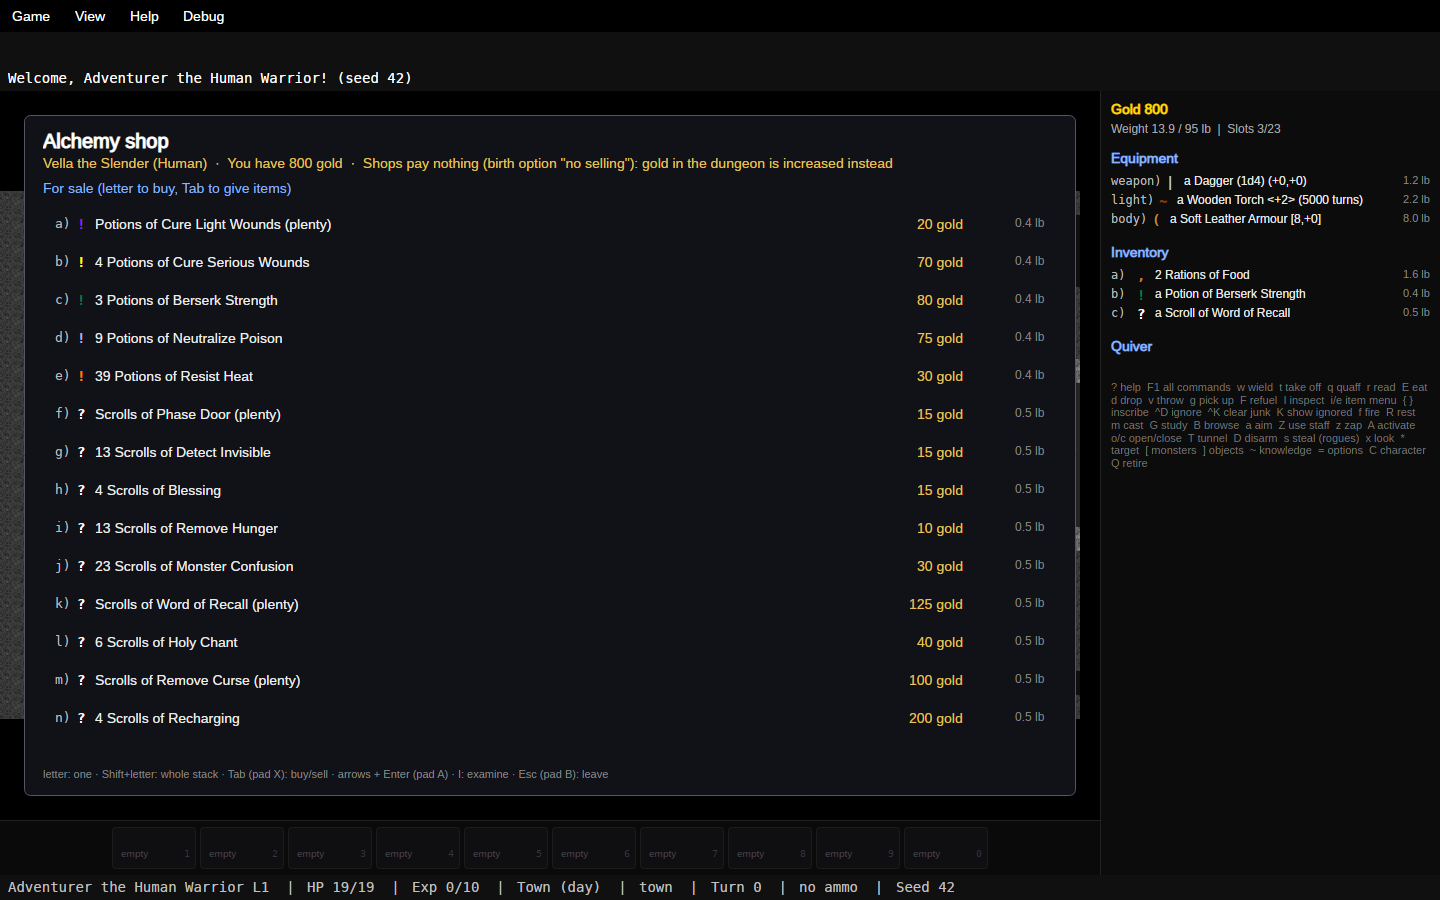
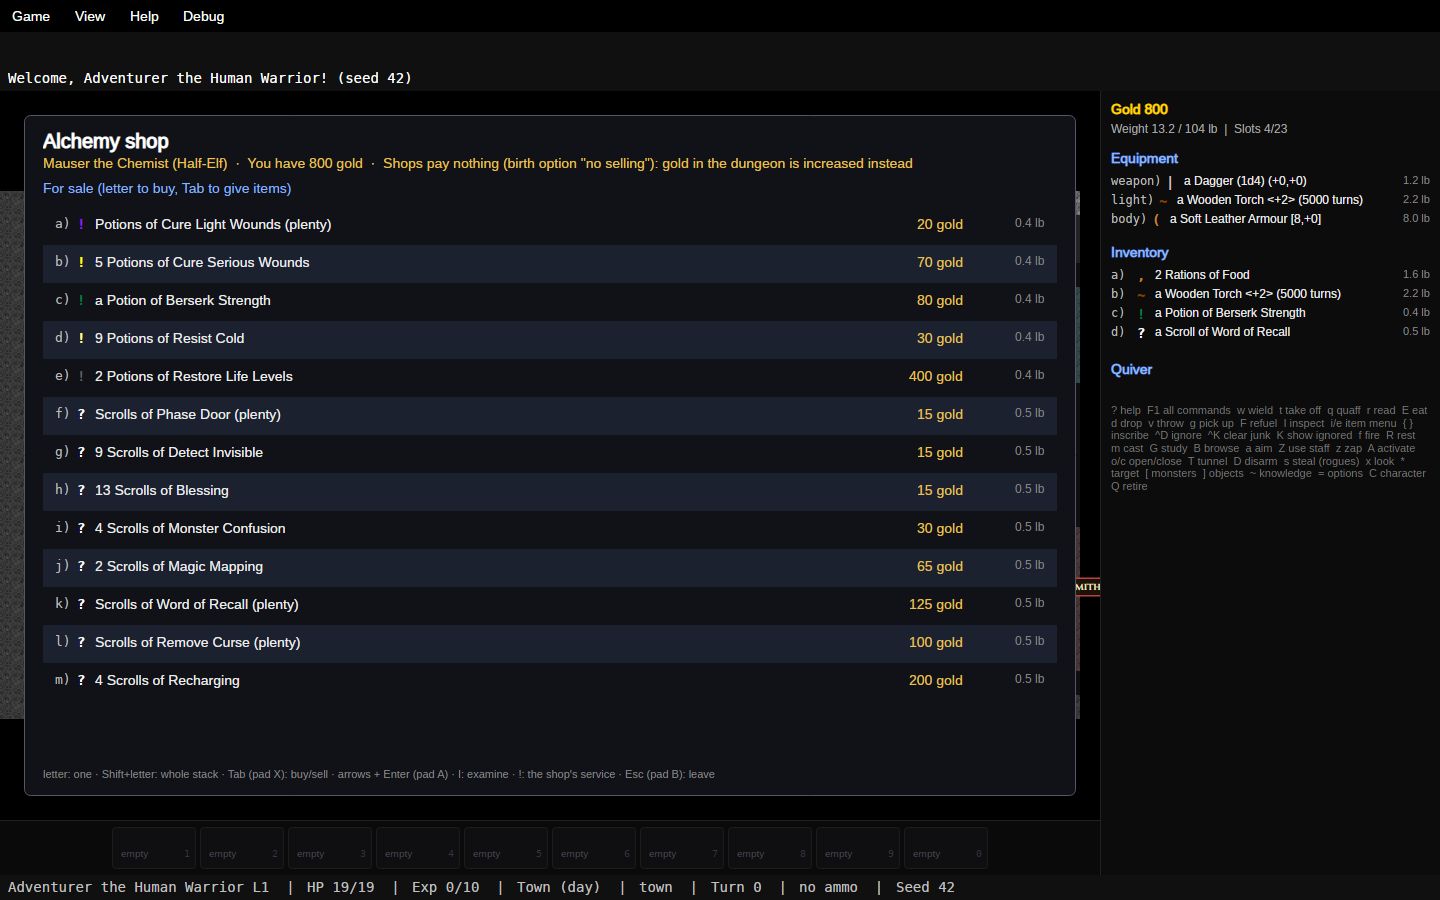
Striped shop lists; a) picks up a whole pile
Every other row of a shop's list is a shade lighter (on the item itself,
so the selection still shows), easier to follow a name across to its
price and weight. Picking up from a pile, the first choice a) is
"Everything here (N things)" and the pile's things are lettered from b);
a lone item is still taken without asking. README store screenshot
re-rendered.

diff --git a/src/Angband.Avalonia/ViewModels/MainWindowViewModel.Items.cs b/src/Angband.Avalonia/ViewModels/MainWindowViewModel.Items.cs
@@ -52,6 +52,9 @@ public sealed record ItemRow(string Letter, string Glyph, uint GlyphColor, strin
 
     /// <summary>The row in words (its accessible name): the note after the name.</summary>
     public string Spoken => HasAdvice ? $"{Name}. {Advice}" : Name;
+
+    /// <summary>The pickup prompt's first row (AVABand's own): everything here at once, not the one item behind it.</summary>
+    public bool AllOfThem { get; init; }
 }
 
 /// <summary>Inventory panel and Angband-style "which item?" prompts.</summary>
@@ -151,9 +154,18 @@ public sealed partial class MainWindowViewModel
             _ => "Inspect which item?",
         };
         PromptRows.Clear();
-        for (var i = 0; i < candidates.Count && i < 26; i++)
+        // Picking up from a pile (AVABand's own): a) takes everything here, and the pile's own things start at b).
+        var first = 0;
+        if (kind == ItemPromptKind.Pickup && candidates.Count > 1)
         {
-            var row = Row(((char)('a' + i)).ToString(), candidates[i]);
+            var weight = candidates.Where(i => !i.IsGold).Sum(i => i.TotalWeight);
+            PromptRows.Add(new ItemRow("a", "*", 0xFFFFE08A, $"Everything here ({candidates.Count} things)",
+                string.Format(CultureInfo.InvariantCulture, "{0:0.0} lb", weight / 10.0), candidates[0]) { AllOfThem = true });
+            first = 1;
+        }
+        for (var i = 0; i < candidates.Count && i + first < 26; i++)
+        {
+            var row = Row(((char)('a' + i + first)).ToString(), candidates[i]);
             // Wear or wield: each with the shops' note on how it compares with what it would replace.
             if (kind == ItemPromptKind.Wield && WieldAdvice(candidates[i]) is { } advice)
                 row = row with
@@ -192,6 +204,13 @@ public sealed partial class MainWindowViewModel
             else if (!AssignChosen(null, spellRow.Spell)) ChooseSpell(spellRow);
             return true;
         }
+        // The pickup prompt's a): everything here.
+        if (!char.IsAsciiDigit(key) && PromptRows.FirstOrDefault(r => r.Letter[0] == key) is { AllOfThem: true })
+        {
+            _assignSlot = null;
+            PickUpEverything();
+            return true;
+        }
         // A digit picks the item inscribed for it (Angband @q1, or @1 for any command).
         var item = char.IsAsciiDigit(key)
             ? PromptRows.Select(r => r.Item).FirstOrDefault(i => Inscription.HasTag(i, CommandKey(_promptKind), key))
@@ -205,6 +224,14 @@ public sealed partial class MainWindowViewModel
         if (AssignChosen(item, null)) return true; // filling a hotbar slot
         UseItemAsked(_promptKind, item);
         return true;
+    }
+
+    /// <summary>Picks up everything underfoot — asking first if anything there is inscribed to ask (Angband !g, !*).</summary>
+    private void PickUpEverything()
+    {
+        var here = Candidates(ItemPromptKind.Pickup).ToList();
+        if (here.Any(i => Inscription.AsksFirst(i, 'g'))) AskFirst("Really pick up everything here?", () => Execute(new PickupCommand()));
+        else Execute(new PickupCommand());
     }
 
     /// <summary>Uses an item as the command says — asking first if its inscription says to (Angband !d, !*).</summary>

diff --git a/tests/Angband.Avalonia.Tests/PickupUiTests.cs b/tests/Angband.Avalonia.Tests/PickupUiTests.cs
@@ -1,0 +1,70 @@
+using Angband.Avalonia.ViewModels;
+using Angband.Avalonia.Views;
+using Angband.Core.Game;
+using Angband.Data;
+using Angband.Input;
+using Avalonia.Headless;
+using Avalonia.Headless.XUnit;
+using Avalonia.Input;
+
+namespace Angband.Avalonia.Tests;
+
+/// <summary>Picking up from a pile (AVABand's own): a) takes everything, the pile's things lettered from b).</summary>
+public class PickupUiTests
+{
+    private static (MainWindow Window, MainWindowViewModel Vm) Open(params string[] pile)
+    {
+        MainWindow.ShowCreationOnFirstRun = false;
+        var settings = new AppSettings();
+        settings.Options[DisplayOptions.Hints] = false;
+        var vm = new MainWindowViewModel(DataLoader.Load(DataLoader.DefaultDataDirectory), [], settings, save: null);
+        vm.UseInput(InputBindings.Defaults(), null, null);
+        vm.StartGame(42, "warrior");
+        var game = vm.Game;
+        foreach (var kind in pile) game.Level.Objects.Add(game.Player.Position, game.Objects.Create(kind));
+        var window = new MainWindow { DataContext = vm, Width = 1280, Height = 760 };
+        window.Show();
+        return (window, vm);
+    }
+
+    private static int Underfoot(MainWindowViewModel vm) => vm.Game.Level.Objects.At(vm.Game.Player.Position).Count();
+
+    [AvaloniaFact]
+    public void A_PicksUpEverything_AndThePilesThingsStartAtB()
+    {
+        var (window, vm) = Open("dagger", "flask_of_oil", "cure_light_wounds");
+        window.KeyPressQwerty(PhysicalKey.G, RawInputModifiers.None);
+        Assert.True(vm.IsPrompting);
+        Assert.Equal("Pick up which item?", vm.PromptTitle);
+        Assert.Equal(4, vm.PromptRows.Count);
+        Assert.Equal(("a", "Everything here (3 things)"), (vm.PromptRows[0].Letter, vm.PromptRows[0].Name));
+        Assert.True(vm.PromptRows[0].AllOfThem);
+        Assert.Equal(["b", "c", "d"], vm.PromptRows.Skip(1).Select(r => r.Letter));
+        TileRenderingTests.Save(window, "pickup-everything");
+
+        window.KeyPressQwerty(PhysicalKey.A, RawInputModifiers.None);
+        Assert.False(vm.IsPrompting);
+        Assert.Equal(0, Underfoot(vm));
+        Assert.Contains(vm.Game.Player.Inventory.Pack, i => i.Kind.Id == "cure_light_wounds");
+    }
+
+    [AvaloniaFact]
+    public void B_PicksUpJustTheFirstThing()
+    {
+        var (window, vm) = Open("dagger", "flask_of_oil");
+        window.KeyPressQwerty(PhysicalKey.G, RawInputModifiers.None);
+        var first = vm.PromptRows[1].Item;
+        window.KeyPressQwerty(PhysicalKey.B, RawInputModifiers.None);
+        Assert.Equal(1, Underfoot(vm));
+        Assert.DoesNotContain(vm.Game.Level.Objects.At(vm.Game.Player.Position), i => ReferenceEquals(i, first));
+    }
+
+    [AvaloniaFact]
+    public void ALoneThing_IsPickedUpWithoutAsking()
+    {
+        var (window, vm) = Open("dagger");
+        window.KeyPressQwerty(PhysicalKey.G, RawInputModifiers.None);
+        Assert.False(vm.IsPrompting);
+        Assert.Equal(0, Underfoot(vm));
+    }
+}

diff --git a/tests/Angband.Avalonia.Tests/StoreUiTests.cs b/tests/Angband.Avalonia.Tests/StoreUiTests.cs
@@ -323,6 +323,21 @@ public class StoreUiTests
         Assert.Equal(had + 8, game.Player.Inventory.All.Where(i => i.Kind.Id == "flask_of_oil").Sum(i => i.Number));
     }
 
+    /// <summary>Every other row of a shop's list a shade lighter, so a name is easy to follow across to its price.</summary>
+    [AvaloniaFact]
+    public void TheShopsRows_AreStriped()
+    {
+        var (window, vm, _) = OpenAt("general");
+        window.CaptureRenderedFrame();
+        var items = window.GetVisualDescendants().OfType<ListBox>().Single(l => l.Name == "StoreList")
+            .GetVisualDescendants().OfType<ListBoxItem>().ToList();
+        Assert.True(items.Count >= 4);
+        var shade = global::Avalonia.Media.Color.Parse("#1C2130");
+        Assert.All(items.Where((_, i) => i % 2 == 1), i => Assert.Equal(shade, (i.Background as global::Avalonia.Media.ISolidColorBrush)?.Color));
+        Assert.All(items.Where((_, i) => i % 2 == 0), i => Assert.NotEqual(shade, (i.Background as global::Avalonia.Media.ISolidColorBrush)?.Color));
+        TileRenderingTests.Save(window, "store-striped");
+    }
+
     /// <summary>AVABand's own: at "Quantity (1-N, a for all)?", A sells (or buys) the lot.</summary>
     [AvaloniaFact]
     public void At_the_quantity_A_trades_them_all()

diff --git a/src/Angband.Avalonia/Views/MainWindow.axaml.cs b/src/Angband.Avalonia/Views/MainWindow.axaml.cs
@@ -248,7 +248,7 @@ public partial class MainWindow : Window
         if (DataContext is not MainWindowViewModel vm) return;
         var row = (e.Source as global::Avalonia.Visual)?.FindAncestorOfType<ListBoxItem>(includeSelf: true)?.DataContext;
         var letter = row switch { ItemRow r => r.Letter, SpellRow s => s.Letter, ChoiceRow c => c.Letter, _ => null };
-        var payload = row switch { ItemRow r => MainWindowViewModel.DragPayload(r.Item), SpellRow s => MainWindowViewModel.DragPayload(s.Spell), _ => null };
+        var payload = row switch { ItemRow { AllOfThem: false } r => MainWindowViewModel.DragPayload(r.Item), SpellRow s => MainWindowViewModel.DragPayload(s.Spell), _ => null };
         if (letter is { Length: > 0 }) BeginPending(e, payload, () => vm.PromptKey(letter[0])); // picked on release
     }
 

diff --git a/README.md b/README.md
@@ -714,7 +714,8 @@ it on the floor (`x`), and it sits under each choice in the *Wear or wield* prom
     turns selling on (or off) mid-game — an AVABand addition, and not a cheat: either setting is
     a legitimate 4.2 game, so the character is still scored.
   - Bought items are fully known. The home stores up to 24 stacks.
-  Walk onto an entrance (or press `_` / Confirm on it) to open the store screen: a letter buys or
+  Walk onto an entrance (or press `_` / Confirm on it) to open the store screen (every other row a shade
+  lighter, AVABand's own, so a name is easy to follow across to its price): a letter buys or
   sells, asking "Quantity (1-N)?" as Angband does when there is more than one to have (Enter for
   one, or type a number, or AVABand's own `a` for all of them; on the controller up/down change it
   by one, right/left by ten, A takes it), Shift+letter the whole stack at once, Tab (pad X) switches buying/selling, Esc (pad B) leaves.
@@ -1891,7 +1892,7 @@ the context action, or a game command.
 
 Default keys:
 Arrows / numpad / `hjklyubn` move; Shift+arrow or Shift+keypad (or `H` `J` `L` `Y` `U` `N` — `K` and `B` stay toggle-ignore and browse) runs, and `.` + direction runs too; `<` `>` stairs, `o`/`c`/`T`/`D` + direction open/close/tunnel/disarm (`5` for underfoot), `5` or `,` hold, `s` + direction steal (rogues; others hold), `f` fire at the nearest visible monster, `R` rest, walk into a monster to attack,
-`w` wield, `t` take off, `q` quaff, `r` read, `E` eat, `d` drop, `v` throw, `g` pick up, `F` refuel,
+`w` wield, `t` take off, `q` quaff, `r` read, `E` eat, `d` drop, `v` throw, `g` pick up (AVABand's own: on a pile, `a) Everything here` takes it all and the pile's things are lettered from `b`), `F` refuel,
 `I` inspect, `a` aim a wand, `Z` use a staff, `z` zap a rod, `A` activate (these open an item list: press its letter, or Esc), `m` cast, `G` study, `B` browse spells,
 Debug menu: F5 regenerate the level, F8 jump to the next level, F6 go 5 levels deeper, F9 jump straight back to town (no recall delay or message), F7 show the whole map, *Cure all* (Angband's wizard cure-all: curses, stats, experience, hit points, mana, ailments and hunger), *Try a quest* (AVABand's: any of its quests at once — a new debug character of your race
 and class, raised to the level the quest suits and to the stats such a character would have, kitted

diff --git a/src/Angband.Avalonia/Assets/Help/02-commands.md b/src/Angband.Avalonia/Assets/Help/02-commands.md
@@ -26,7 +26,7 @@
 
 ## Commands worth knowing first
 
-- `g` pick up, `d` drop, `w` wear or wield (each choice says whether it would suit you better than what it replaces), `t` take off; your pack and gear are always on the right.
+- `g` pick up (on a pile, `a` takes everything there and the pile's things start at `b`), `d` drop, `w` wear or wield (each choice says whether it would suit you better than what it replaces), `t` take off; your pack and gear are always on the right.
 - `q` quaff a potion, `r` read a scroll, `E` eat, `F` refuel your light — a
   lantern takes oil from a Flask of Oil or from another lantern (a torch can't be refilled). The
   General Store (1) always sells lanterns and oil.

diff --git a/src/Angband.Avalonia/Assets/Help/11-whats-new.md b/src/Angband.Avalonia/Assets/Help/11-whats-new.md
@@ -3,6 +3,13 @@
 The newest changes first. After an update, AVABand shows you what's arrived since you last
 played; this page keeps it all (Help → What's new...).
 
+## 2026-10-04
+
+- **Shop lists are striped**: every other row is a shade lighter, so it's easy to follow an item's
+  name across to its price and weight.
+- **Pick up a whole pile with `a`**: standing on a pile and pressing `g`, the first choice, `a)`, is
+  *Everything here*; the pile's things are lettered from `b)`.
+
 ## 2026-10-03
 
 - **Shopfronts in town**: every shop is painted its own colour, with windows either side of the door
